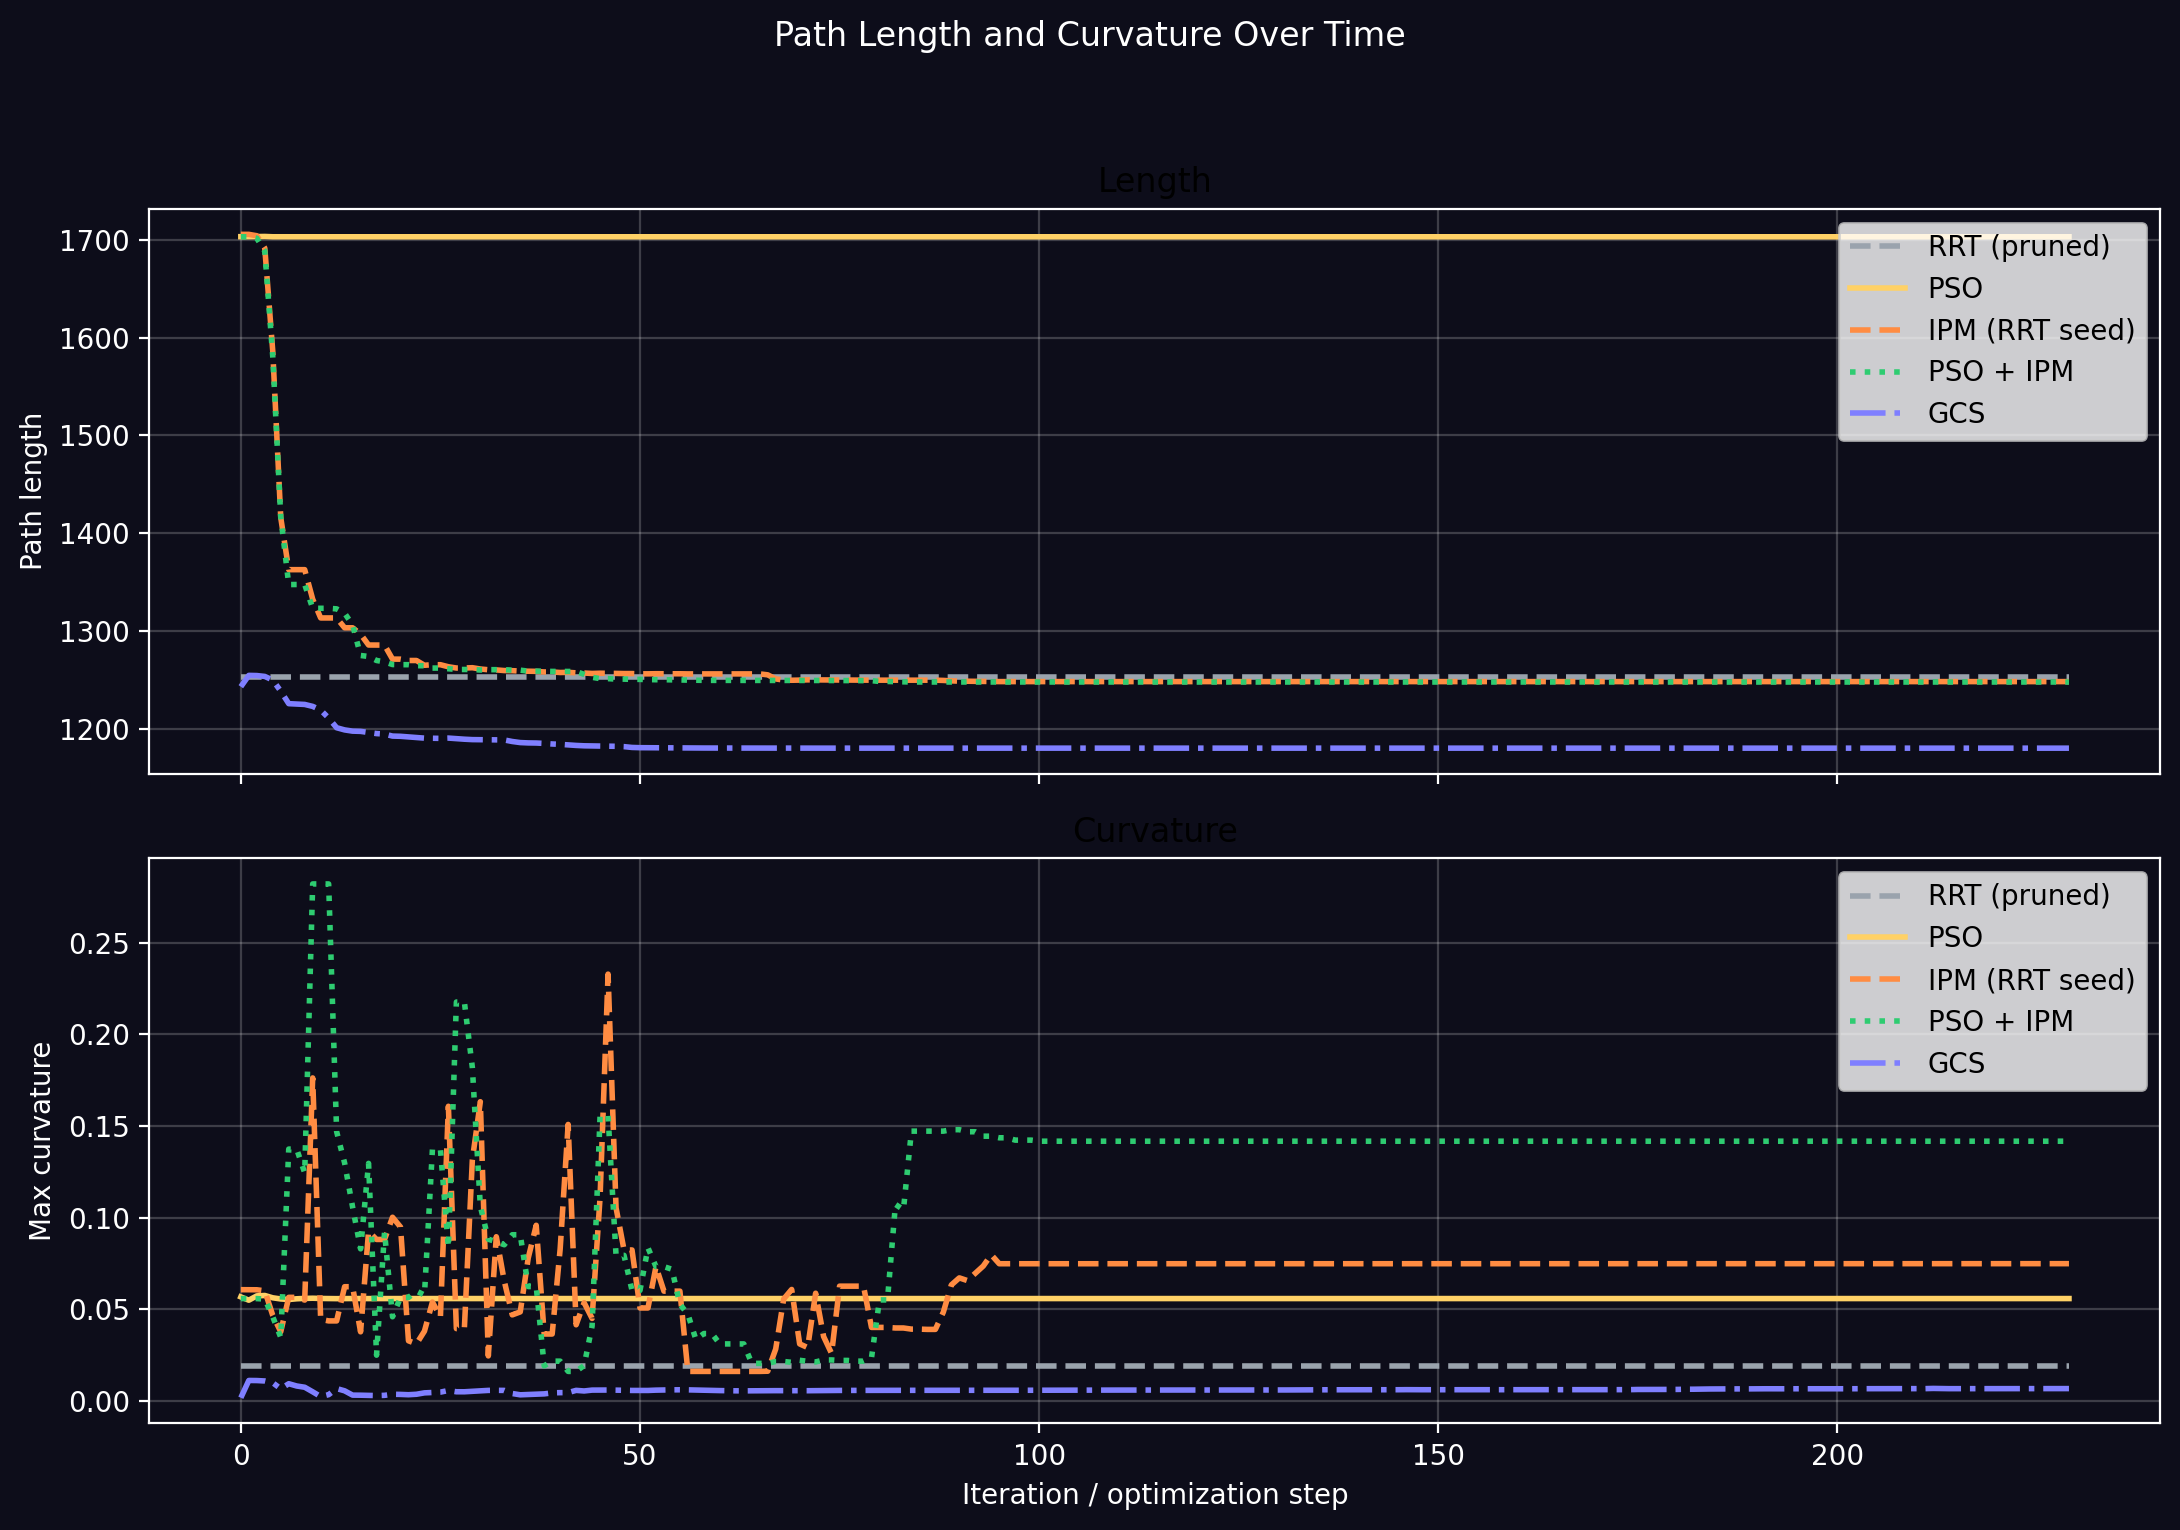
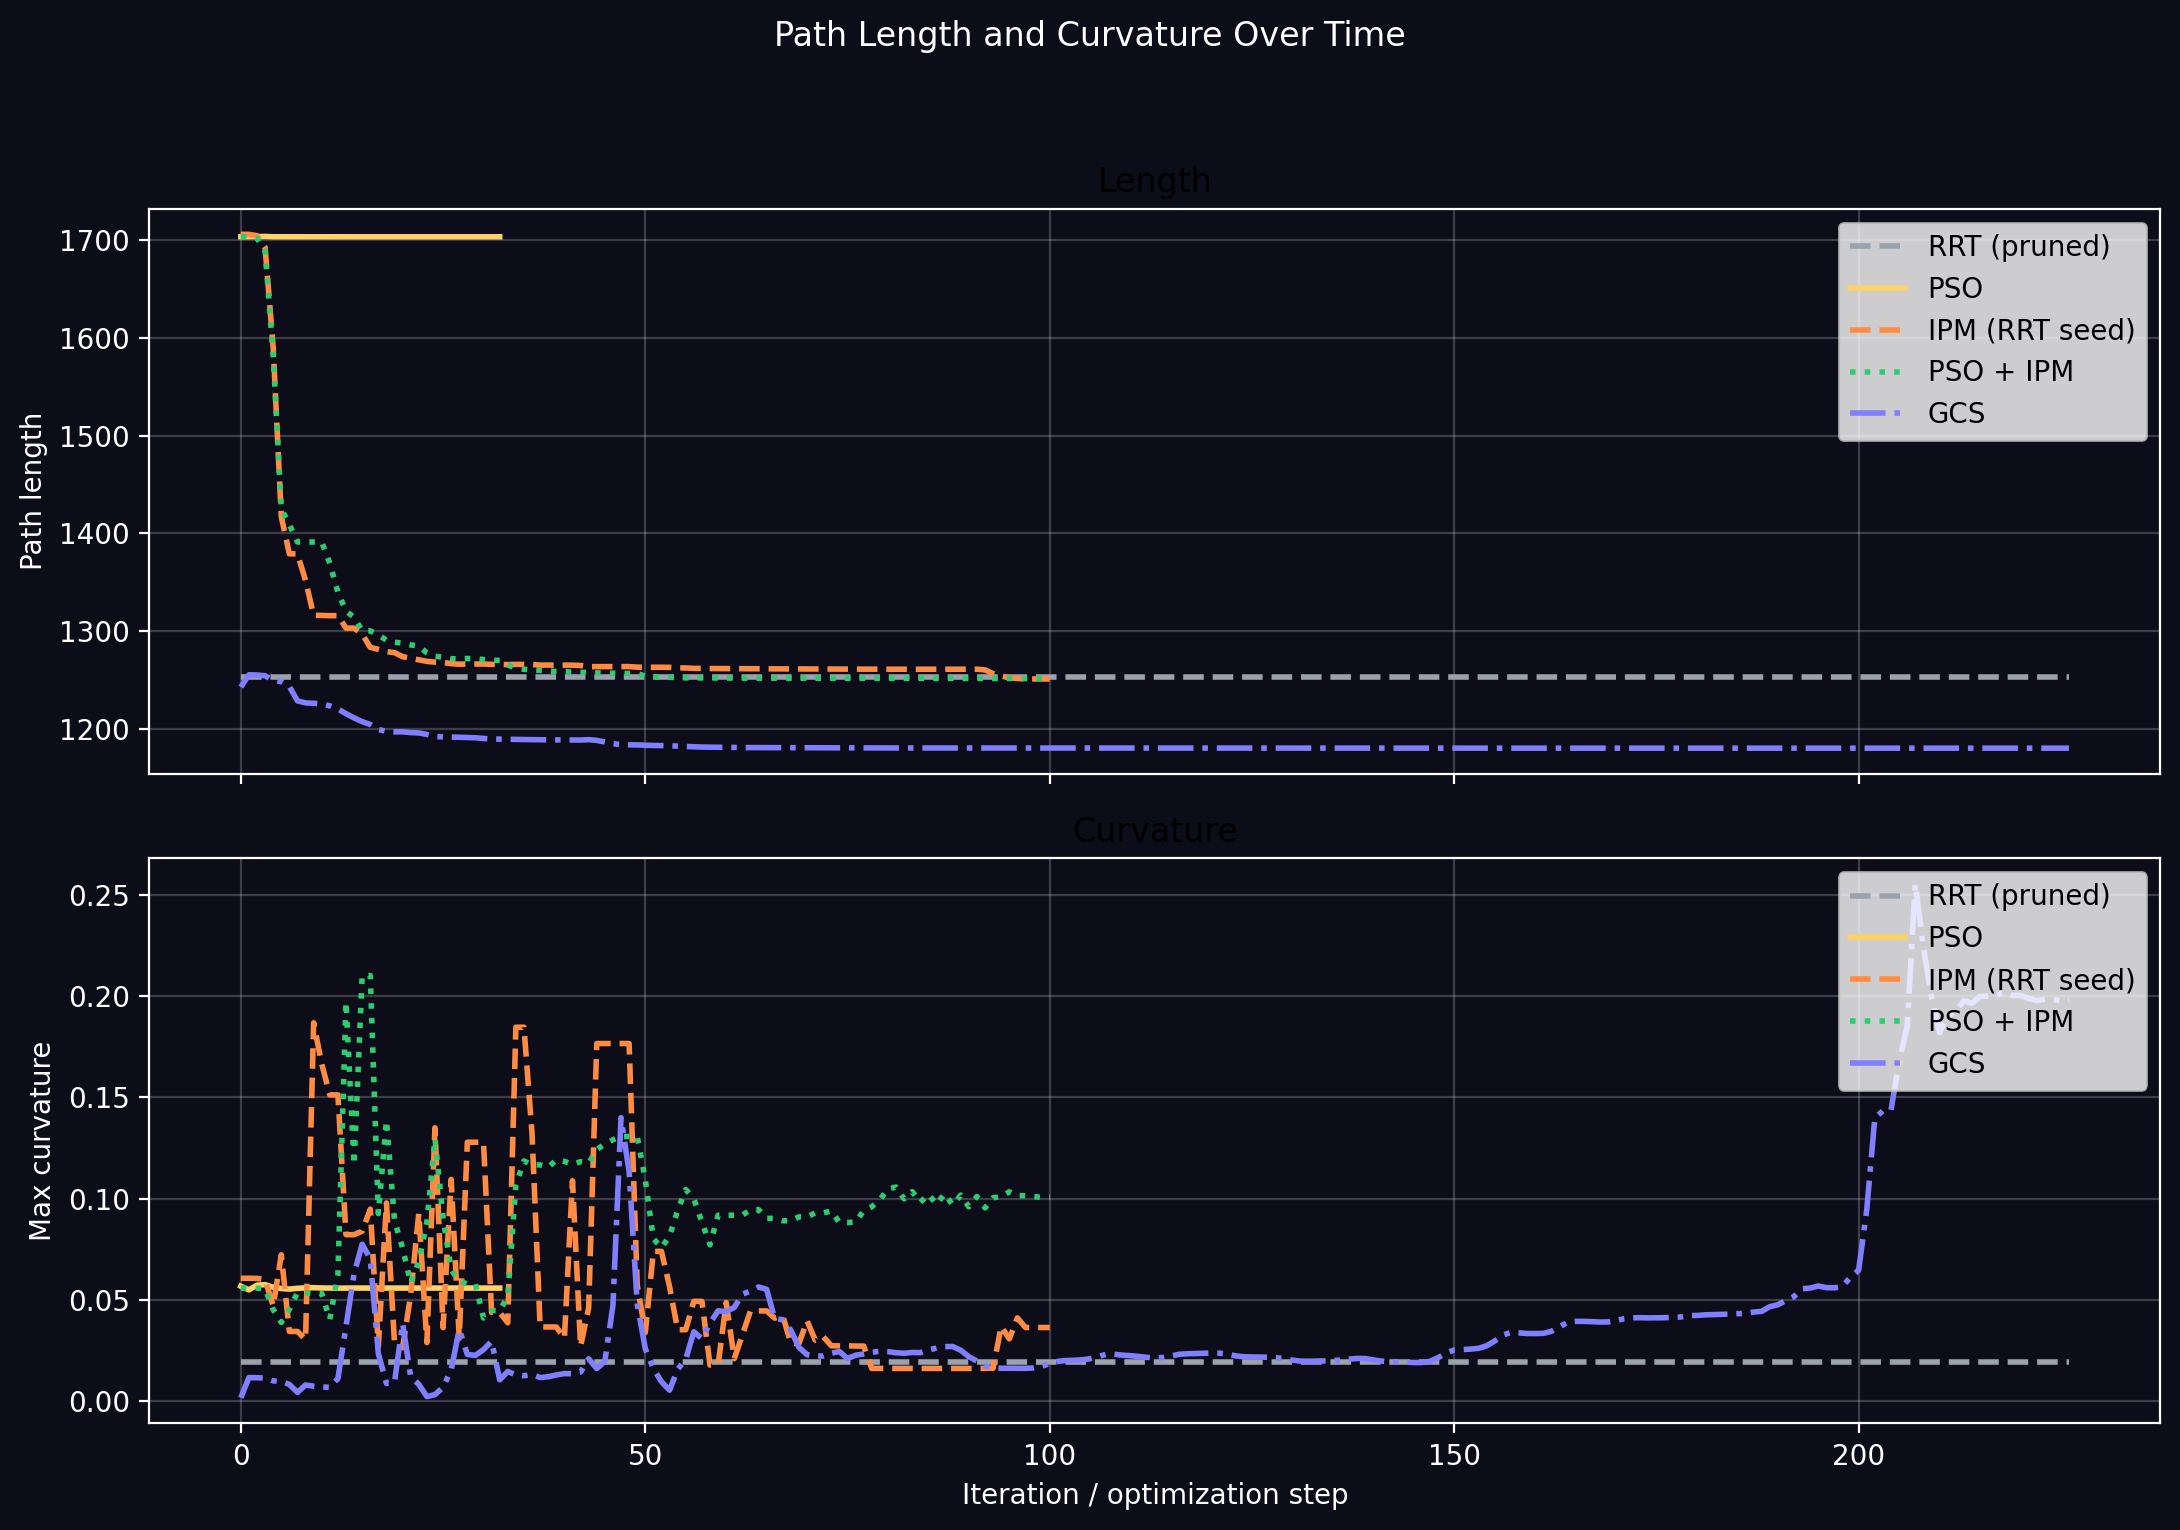
No collisions, all is working well

diff --git a/pathfinder.py b/pathfinder.py
@@ -23,7 +23,7 @@ N_BOXES = 14
 BOX_SEED = 23
 SAVE_GIFS = True
 COLLISION_CLEARANCE = 0.0
-COLLISION_CONSTRAINT_SAMPLES = 400
+COLLISION_CONSTRAINT_SAMPLES = 600
 Z_HEADROOM = 10.0
 IPM_MAX_ITERS = 100
 IPM_ACCEPT_MARGIN = 0.3
@@ -1638,7 +1638,8 @@ def align_history(history, horizon):
         return [np.nan] * horizon
     aligned = list(history)
     if len(aligned) < horizon:
-        aligned.extend([aligned[-1]] * (horizon - len(aligned)))
+        # Pad with NaN so the plotted line ends at the method's last iteration.
+        aligned.extend([np.nan] * (horizon - len(aligned)))
     return aligned[:horizon]
 
 pso_length_history = align_history(pso_length_history, metrics_horizon)
